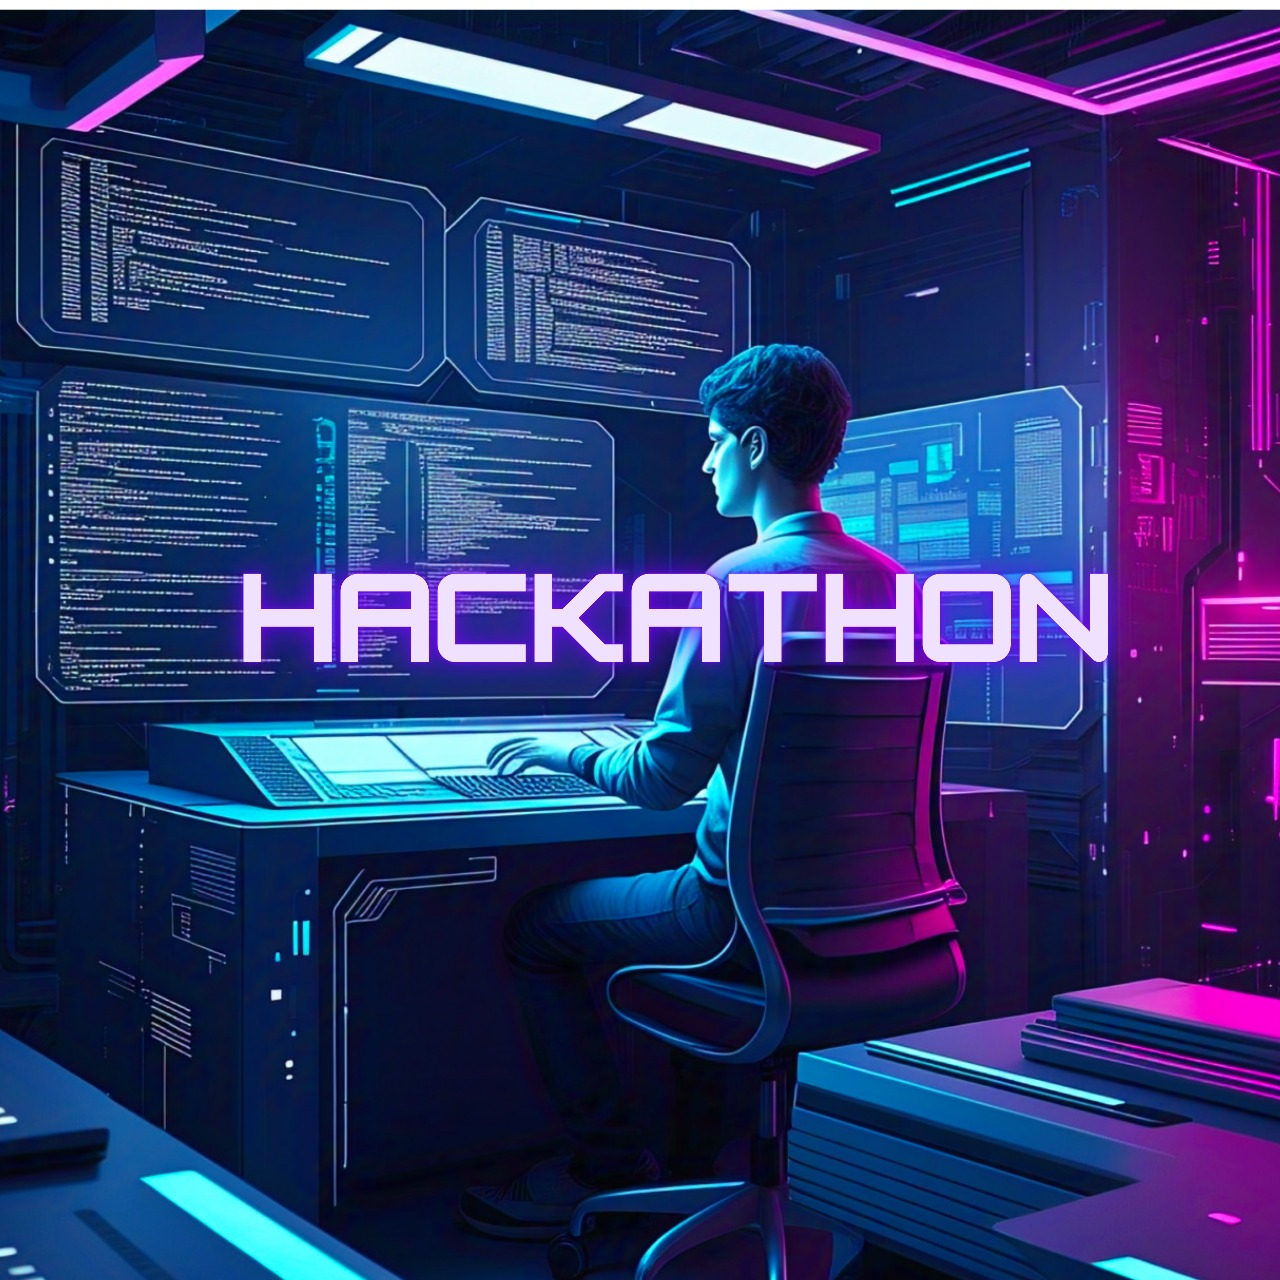
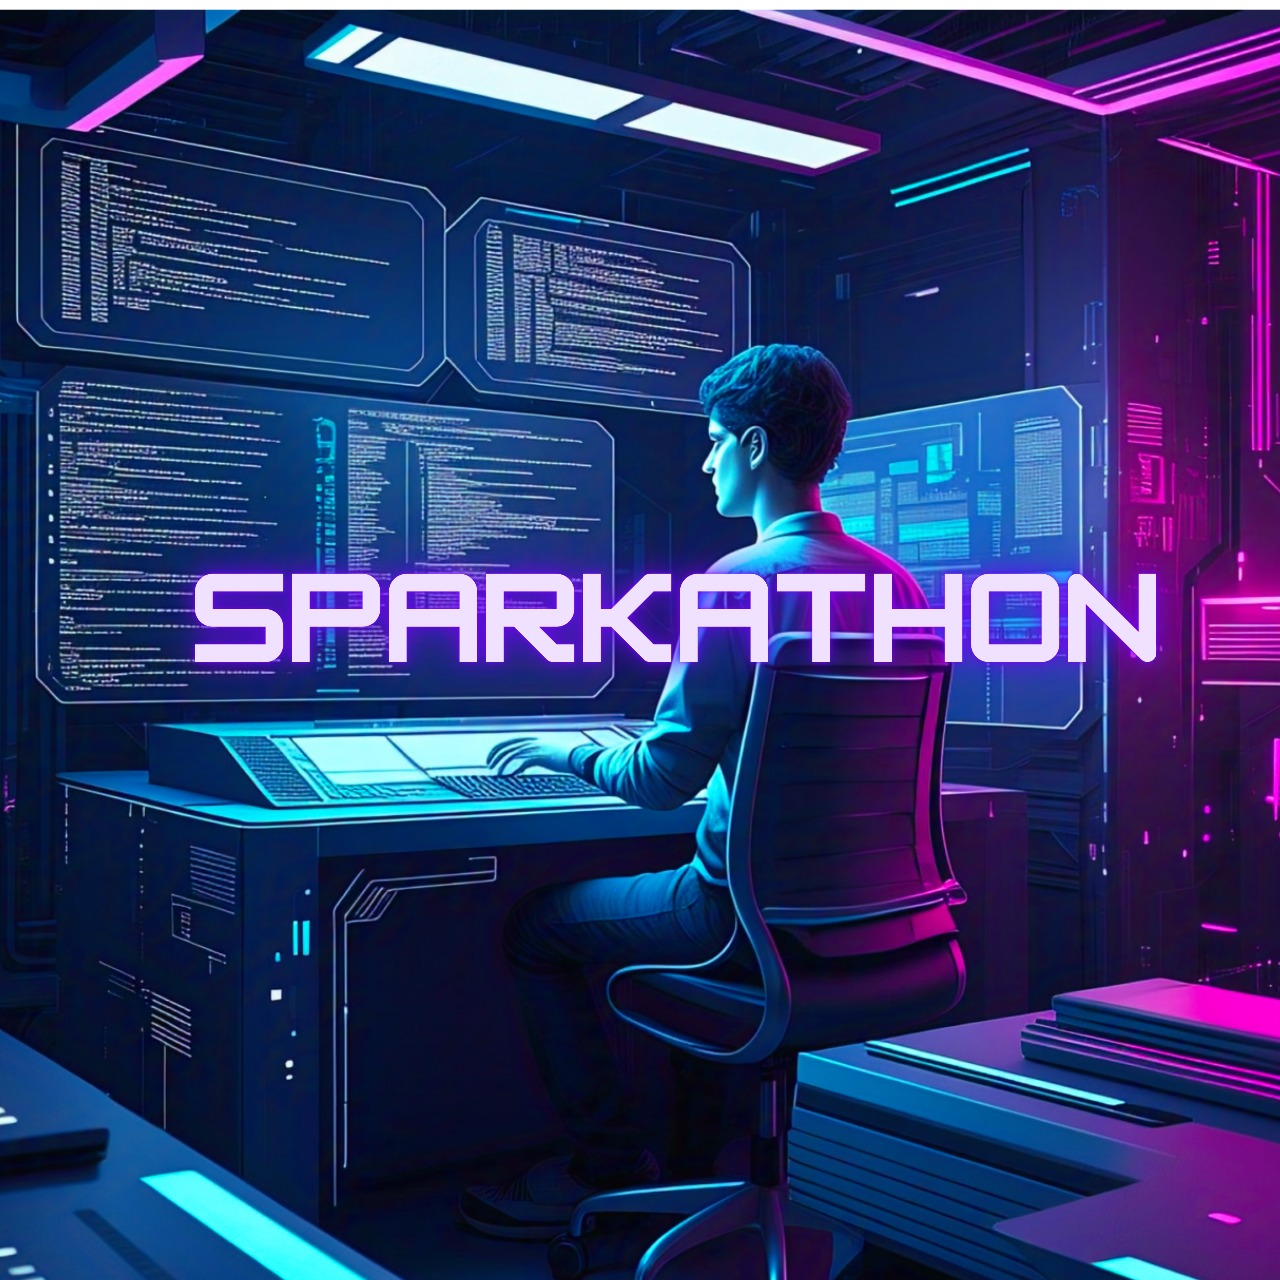
updated events

Changed region(s): [[0.125, 0.4375, 0.9375, 0.5312]]

diff --git a/src/components/Events.jsx b/src/components/Events.jsx
@@ -8,7 +8,7 @@ const eventsData = {
       name: 'Paper Presentation',
       type: 'Competition',
       image: '/event-images/paper-presentation.jpg',
-      description: 'Present your research papers on innovative dragon-tech solutions and emerging technologies in draconic studies.',
+      description: 'Present your research papers on innovative tech solutions and emerging technologies in specialized studies.',
       host: 'Abitha vk Lija',
       date: 'May 15, 2025',
       time: '10:00 AM - 4:00 PM',
@@ -28,7 +28,7 @@ const eventsData = {
       name: 'Technical Quiz',
       type: 'Quiz',
       image: '/event-images/tech-quiz.jpg',
-      description: 'Test your technical knowledge and problem-solving skills in this fast-paced quiz covering various dragon engineering topics.',
+      description: 'Test your technical knowledge and problem-solving skills in this fast-paced quiz covering various engineering topics.',
       host: 'Tech Master Ignis',
       rules: [
         "Each question has a time limit.",
@@ -39,11 +39,11 @@ const eventsData = {
       prizes: ['Top Tech Gadget', 'Certification Voucher']
     },
     {
-      name: 'Hackathon',
+      name: 'Sparkathon',
       type: 'Competition',
       image: '/event-images/hack.jpg',
-      description: 'A 24-hour coding marathon to develop innovative solutions for dragon-related challenges and technological problems.',
-      host: 'Dragon Code Foundation',
+      description: 'A 6-hour coding marathon to develop innovative solutions for complex challenges and technological problems.',
+      host: 'Code Foundation',
       rules: [
         "Teams must develop a solution based on the given problem statement.",
         "Allowed languages: Python, Java, C++, etc.",
@@ -53,26 +53,26 @@ const eventsData = {
       ],
       prizes: ['Top Prize', 'Runner Up']
     },
-    {
-      name: 'Tackle the Cyber',
-      type: 'Competition',
-      image: '/event-images/tackle-the-cyber.jpg',
-      description: 'Learn cybersecurity techniques to protect dragon data systems from external threats in this hands-on workshop.',
-      host: 'Security Expert Draco Shield',
-      rules: [
-        "Participants must not harm or hack event infrastructure.",
-        "No unauthorized tools or pre-written scripts.",
-        "Teams must document steps taken to solve challenges.",
-        "Any unethical behavior leads to disqualification."
-      ],
-      prizes: ['Cyber Guardian Trophy', 'Security Tool Subscription']
-    },
+    // {
+    //   name: 'Tackle the Cyber',
+    //   type: 'Competition',
+    //   image: '/event-images/tackle-the-cyber.jpg',
+    //   description: 'Learn cybersecurity techniques to protect critical data systems from external threats in this hands-on workshop.',
+    //   host: 'Security Expert Shield',
+    //   rules: [
+    //     "Participants must not harm or hack event infrastructure.",
+    //     "No unauthorized tools or pre-written scripts.",
+    //     "Teams must document steps taken to solve challenges.",
+    //     "Any unethical behavior leads to disqualification."
+    //   ],
+    //   prizes: ['Cyber Guardian Trophy', 'Security Tool Subscription']
+    // },
     {
       name: 'Hardware Resemble',
       type: 'Competition',
       image: '/event-images/hard.jpg',
-      description: 'Design and build functional hardware prototypes for dragon management, training, or environmental monitoring.',
-      host: 'Master Engineer Ember Tech',
+      description: 'Design and build functional hardware prototypes for management, training, or environmental monitoring.',
+      host: 'Master Engineer Tech',
       rules: [
         "Teams must assemble/disassemble hardware components within the time limit.",
         "Participants should identify and explain each part.",
@@ -85,8 +85,8 @@ const eventsData = {
       name: 'UI/UX Design',
       type: 'competition',
       image: '/event-images/ui-ux.jpg',
-      description: 'Create intuitive interfaces and experiences for dragon-related applications and management systems.',
-      host: 'Design Director Flame Interface',
+      description: 'Create intuitive interfaces and experiences for various applications and management systems.',
+      host: 'Design Director Interface',
       rules: [
         "Participants must design a UI/UX prototype for a given problem statement.",
         "Allowed tools: Figma, Adobe XD, Canva, or any other design software.",
@@ -96,7 +96,7 @@ const eventsData = {
       prizes: ['Best Design Award', 'Design Tool Subscription']
     },
     {
-      name: 'Coding Challenge',
+      name: 'Debugging',
       type: 'Competition',
       image: '/event-images/debug.jpg',
       description: 'Solve complex coding problems and showcase your programming skills.',
@@ -120,7 +120,7 @@ const eventsData = {
       name: 'Cinematic Quiz',
       type: 'Quiz',
       image: '/event-images/cinematic-quiz.jpg',
-      description: 'Test your knowledge of movies and cinema in this exciting quiz.',
+      description: 'Test your knowledge of movies, TV shows, and cinematic lore in this exciting film-themed quiz competition.',
       host: 'Jane Smith',
       date: 'July 5, 2025',
       time: '11:00 AM - 1:00 PM',
@@ -139,8 +139,8 @@ const eventsData = {
       name: 'Bridge the Gap',
       type: 'Team Event',
       image: '/event-images/bridge.jpg',
-      description: 'A team-building event where participants collaborate to solve problems and bridge communication gaps between dragons and humans.',
-      host: 'Mediator Harmony Wing',
+      description: 'A team-building event where participants collaborate to solve problems and bridge communication gaps effectively.',
+      host: 'Mediator Harmony',
       rules: [
         "One member is given a keyword, and they must explain it without saying the word itself.",
         "The other member must guess the correct word.",
@@ -153,8 +153,8 @@ const eventsData = {
       name: 'Debate',
       type: 'Competition',
       image: '/event-images/debate.jpg',
-      description: 'Engage in stimulating debates on contemporary dragon-related topics, showcasing your persuasive skills and critical thinking.',
-      host: 'Grand Orator Embertongue',
+      description: 'Engage in stimulating debates on contemporary topics, showcasing your persuasive skills and critical thinking.',
+      host: 'Grand Orator',
       rules: [
         "Topics will be given on the spot or 15 minutes prior.",
         "Each participant must present arguments for or against the topic.",
@@ -167,8 +167,8 @@ const eventsData = {
       name: 'Portrait Painting',
       type: 'Art Competition',
       image: '/event-images/paint.jpg',
-      description: 'Express your artistic talents by painting portraits of legendary dragons and their riders using various media and techniques.',
-      host: 'Master Artist Brushfire',
+      description: 'Express your artistic talents by painting portraits of legendary figures and their companions using various media and techniques.',
+      host: 'Master Artist',
       rules: [
         "Participants must bring their own materials (canvas, paints, brushes).",
         "No digital art or tracing allowed.",
@@ -181,8 +181,8 @@ const eventsData = {
       name: 'Anime Quiz',
       type: 'Competition',
       image: '/event-images/anime.jpg',
-      description: 'Challenge your knowledge of dragon-themed anime, characters, and storytelling traditions from Eastern and Western animation.',
-      host: 'Anime Scholar Dragonwing',
+      description: 'Challenge your knowledge of themed anime, characters, and storytelling traditions from Eastern and Western animation.',
+      host: 'Anime Scholar',
       rules: [
         "Only one answer per team per question.",
         "No use of mobile phones or internet help.",
@@ -194,8 +194,8 @@ const eventsData = {
       name: 'IPL Mock Auction',
       type: 'Simulation',
       image: '/event-images/ipl.jpg',
-      description: 'Participate in a simulated dragon rider auction, building the ultimate team while managing your resources and strategy.',
-      host: 'Auction Master Gold Hoard',
+      description: 'Participate in a simulated team auction, building the ultimate squad while managing your resources and strategy.',
+      host: 'Auction Master',
       rules: [
         "Each team gets a virtual budget to bid for players.",
         "Player values are pre-determined based on real IPL stats.",
@@ -208,8 +208,8 @@ const eventsData = {
       name: 'Rangoli/Mehendi',
       type: 'Art Competition',
       image: '/event-images/rangoli.jpg',
-      description: 'Create beautiful traditional designs inspired by dragon motifs, using colored powders for Rangoli or henna for Mehendi art.',
-      host: 'Art Curator Flame Pattern',
+      description: 'Create beautiful traditional designs inspired by cultural motifs, using colored powders for Rangoli or henna for Mehendi art.',
+      host: 'Art Curator',
       rules: [
         "Participants must bring their own materials (Mehendi cones, colors, etc.).",
         "Designs must be original (no printed references).",
@@ -243,8 +243,8 @@ const eventsData = {
       name: 'Singing',
       type: 'Competition',
       image: '/event-images/sing.jpg',
-      description: 'Showcase your vocal talents with dragon-themed songs, ranging from powerful ballads to contemporary pieces.',
-      host: 'Vocal Master Harmonia',
+      description: 'Showcase your vocal talents with themed songs, ranging from powerful ballads to contemporary pieces.',
+      host: 'Vocal Master',
       rules: [
         "Participants can sing with or without background music (karaoke allowed).",
         "No auto-tune or pre-recorded vocals.",
@@ -272,8 +272,8 @@ const eventsData = {
       name: 'Mime',
       type: 'Performance',
       image: '/event-images/mime.jpg',
-      description: 'Tell stories of dragon adventures through the art of silent expression, using only gestures and body movements.',
-      host: 'Mime Artist Silentflame',
+      description: 'Tell compelling stories through the art of silent expression, using only gestures and body movements.',
+      host: 'Mime Artist',
       rules: [
         "No dialogues or vocal sounds (only expressions & gestures).",
         "Use of props is allowed but should not distract from the act.",
@@ -286,8 +286,8 @@ const eventsData = {
       name: 'Body Building',
       type: 'Competition',
       image: '/event-images/body-build.jpg',
-      description: 'Demonstrate strength and physical discipline in this competition inspired by the powerful physique of dragons.',
-      host: 'Strength Coach Ironscale',
+      description: 'Demonstrate strength and physical discipline in this demanding fitness competition.',
+      host: 'Strength Coach',
       rules: [
         "Participants must wear appropriate attire (shorts/tank tops).",
         "No external assistance (supplements, oils, etc.).",
@@ -299,8 +299,8 @@ const eventsData = {
       name: 'Fashion Show',
       type: 'Exhibition',
       image: '/event-images/fashion.jpg',
-      description: 'Showcase dragon-inspired fashion designs, from wearable art to costume creations that embody draconic elegance.',
-      host: 'Fashion Designer Shimmerscale',
+      description: 'Showcase themed fashion designs, from wearable art to costume creations that embody elegance and creativity.',
+      host: 'Fashion Designer',
       rules: [
         "Themes will be provided or teams can choose their own.",
         "No inappropriate outfits or offensive gestures.",
@@ -336,7 +336,7 @@ const eventsData = {
       type: 'Tournament',
       image: '/event-images/football.jpg',
       description: 'Battle it out on the field in this exciting football tournament featuring tactical gameplay and team coordination.',
-      host: 'Football Captain Swiftfoot',
+      host: 'Football Captain',
       rules: [
         "No offside rule.",
         "Rolling substitutions allowed.",
@@ -350,7 +350,7 @@ const eventsData = {
       type: 'Tournament',
       image: '/event-images/badminton.jpg',
       description: 'Showcase your agility and precision in singles and doubles badminton matches for both boys and girls.',
-      host: 'Badminton Pro Quicksmash',
+      host: 'Badminton Pro',
       rules: [
         "Standard badminton rules apply.",
         "Players must bring their own racquets; shuttlecock will be provided.",
@@ -363,7 +363,7 @@ const eventsData = {
       type: 'Tournament',
       image: '/event-images/kho-kho.jpg',
       description: 'Participate in this traditional Indian sport that tests speed, strategy, and teamwork in an exciting tag-based format.',
-      host: 'Team Leader Swiftchase',
+      host: 'Team Leader',
       rules: [
         "Standard Kho-Kho rules apply.",
         "Defenders must avoid getting touched by chasers.",
@@ -376,7 +376,7 @@ const eventsData = {
       type: 'Tournament',
       image: '/event-images/throwball.jpg',
       description: 'Compete in this non-contact ball sport that combines elements of volleyball and handball for female athletes.',
-      host: 'Coach Steadyhand',
+      host: 'Coach',
       rules: [
         "Ball must be caught and thrown (no volleyball-style hits).",
         "Each team gets three touches before returning the ball.",
@@ -390,7 +390,7 @@ const eventsData = {
       type: 'Competition',
       image: '/event-images/carrom.jpg',
       description: 'Test your precision and strategy in this tabletop game that combines elements of billiards, shuffleboard and checkers.',
-      host: 'Carrom Master Strikeperfect',
+      host: 'Carrom Master',
       rules: [
         "Standard carrom board rules apply.",
         "No external powder allowed.",
@@ -403,7 +403,7 @@ const eventsData = {
       type: 'Tournament',
       image: '/event-images/chess.jpg',
       description: 'Challenge your strategic thinking and foresight in this classic battle of minds on the checkered board.',
-      host: 'Grandmaster Deepthought',
+      host: 'Grandmaster',
       rules: [
         "Standard FIDE chess rules apply.",
         "Players must not use external help (e.g., mobile phones).",
@@ -416,7 +416,7 @@ const eventsData = {
       type: 'Esports',
       image: '/event-images/ff-max.jpg',
       description: 'Compete in this popular battle royale mobile game tournament, showcasing your survival and combat skills in a premiere Esports competition.',
-      host: 'Gaming Champion Pixelfire',
+      host: 'Gaming Champion',
       isEsports: true,
       rules: [
         "Standard Free Fire tournament rules apply.",
@@ -430,7 +430,7 @@ const eventsData = {
       type: 'Competition',
       image: '/event-images/crossfit.jpg',
       description: 'Test your strength, endurance and overall fitness in this high-intensity functional training competition.',
-      host: 'Fitness Coach Ironmuscle',
+      host: 'Fitness Coach',
       rules: [
         "Participants must complete challenges in the given time.",
         "Judges will assess form, stamina, and completion.",
@@ -443,7 +443,7 @@ const eventsData = {
       type: 'Esports',
       image: '/event-images/bgmi.jpg',
       description: 'Battle for victory in this tactical mobile shooter game tournament requiring teamwork and strategic thinking. A flagship Esports event for mobile gamers.',
-      host: 'Esports Director Battleking',
+      host: 'Esports Director',
       isEsports: true,
       rules: [
         "Standard BGMI tournament rules apply.",
@@ -647,7 +647,7 @@ const Events = () => {
                 </div>
               </div>
               
-              <div className="p-4 sm:p-5 md:p-6 bg-gradient-to-b from-dragon-navy/80 to-dragon-black">
+              <div className="p-4 sm:p-5 md:p-6 bg-gradient-to-b from-dragon-navy/80 to-dragon-black relative z-40">
                 <p className={`text-dragon-cream/80 mb-3 text-sm sm:text-base line-clamp-3 ${event.isEsports ? 'font-medium' : ''}`}>{event.description}</p>
                 <div className="flex items-center text-dragon-cream/70 text-xs sm:text-sm">
                   <Users className="mr-2 flex-shrink-0" size={16} />
@@ -657,7 +657,7 @@ const Events = () => {
                 <div className="mt-3 sm:mt-4">
                   <button 
                     onClick={() => handleRegisterClick(event)}
-                    className={`w-full py-1.5 sm:py-2 px-4 ${event.isEsports ? 'bg-gradient-to-r from-dragon-orange/20 to-dragon-red/20 hover:from-dragon-orange/30 hover:to-dragon-red/30' : 'bg-gradient-to-r from-dragon-fire/10 to-dragon-fire/20 hover:from-dragon-fire/20 hover:to-dragon-fire/30'} text-dragon-cream rounded transition-all duration-300 group flex items-center justify-center text-sm sm:text-base`}>
+                    className={`w-full py-1.5 sm:py-2 px-4 ${event.isEsports ? 'bg-gradient-to-r from-dragon-orange/20 to-dragon-red/20 hover:from-dragon-orange/30 hover:to-dragon-red/30' : 'bg-gradient-to-r from-dragon-fire/10 to-dragon-fire/20 hover:from-dragon-fire/20 hover:to-dragon-fire/30'} text-dragon-cream rounded transition-all duration-300 group flex items-center justify-center text-sm sm:text-base relative z-50`}>
                     <span>{event.isEsports ? 'Register for Esports Event' : 'Register for Event'}</span>
                     <Flame size={14} className="ml-2 opacity-0 group-hover:opacity-100 transition-opacity duration-300" />
                   </button>

diff --git a/src/components/EventModal.jsx b/src/components/EventModal.jsx
@@ -137,20 +137,32 @@ const EventModal = ({ event, onClose }) => {
           
           {activeTab === 'rules' && (
             <div className="grid grid-cols-1 md:grid-cols-2 gap-4">
-              <div>
-                <h3 className="text-base font-semibold text-dragon-cream mb-2">Rules</h3>
-                <ul className="space-y-2">
-                  {event.rules && event.rules.map((rule, index) => (
-                    <li key={index} className="text-dragon-cream/80 text-sm">{rule}</li>
+              <div className="space-y-4">
+                <div className="flex items-center text-dragon-cream/80">
+                  <Info className="mr-2 text-dragon-fire" size={18} />
+                  <h3 className="font-bold text-lg">Rules & Guidelines</h3>
+                </div>
+                <ul className="space-y-2 pl-6">
+                  {event.rules.map((rule, index) => (
+                    <li key={index} className="text-dragon-cream/80 flex items-start">
+                      <span className="text-dragon-fire mr-2">•</span>
+                      {rule}
+                    </li>
                   ))}
                 </ul>
               </div>
-              
-              <div>
-                <h3 className="text-base font-semibold text-dragon-cream mb-2">Prizes</h3>
-                <ul className="space-y-2">
-                  {event.prizes && event.prizes.map((prize, index) => (
-                    <li key={index} className="text-dragon-cream/80 text-sm">{prize}</li>
+
+              <div className="space-y-4">
+                <div className="flex items-center text-dragon-cream/80">
+                  <Award className="mr-2 text-dragon-fire" size={18} />
+                  <h3 className="font-bold text-lg">Prizes</h3>
+                </div>
+                <ul className="space-y-2 pl-6">
+                  {event.prizes.map((prize, index) => (
+                    <li key={index} className="text-dragon-cream/80 flex items-start">
+                      <span className="text-dragon-fire mr-2">•</span>
+                      {prize}
+                    </li>
                   ))}
                 </ul>
               </div>

diff --git a/src/components/Hero.jsx b/src/components/Hero.jsx
@@ -57,7 +57,7 @@ const Hero = () => {
         <div className="flex flex-col items-center text-center">
           <div className="flex flex-col sm:flex-row items-center gap-4 mb-2">
             <img 
-              src="/public/lovable-uploads/mce-logo.png" 
+              src="/lovable-uploads/mce-logo.png" 
               alt="" 
               className="w-23 h-23 sm:w-15 sm:h-15"
             />
